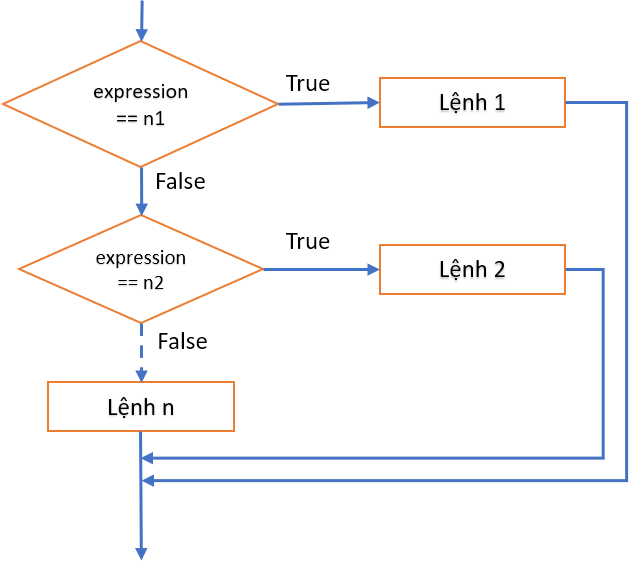
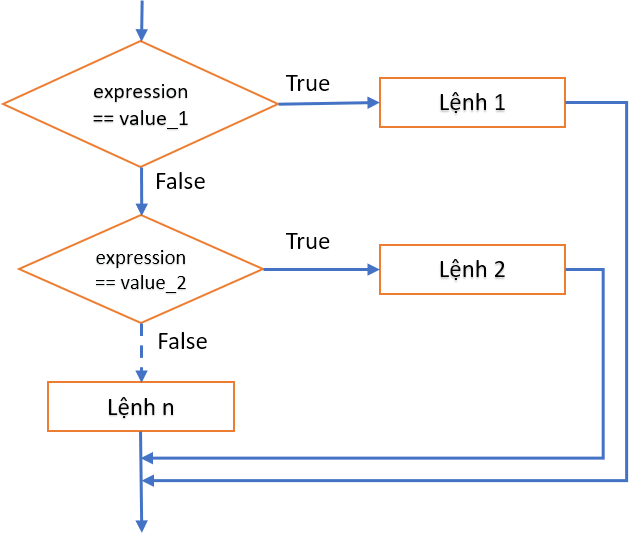
update

diff --git a/03-control-structures/README.md b/03-control-structures/README.md
@@ -39,9 +39,10 @@
 ```c
 if(condition)
     {
-        // Khối lệnh được thực hiện khi biểu thức condition != 0 (true)
+        // Khối lệnh được thực hiện khi biểu thức logic <condition> != 0 (true)
     }
 ```
+- `<condition>` là một biểu thức logic, có kết quả đúng (!=0, thường là 1), hoặc sai (tương ứng 0).
 
 #### Ví dụ:
 ```c
@@ -65,7 +66,7 @@ else
         // Khối lệnh được thực hiện khi biểu thức condition == 0 (false)
     }
 ```
-
+- `<expression>` là một biểu thức có giá trị rời rạc
 #### Ví dụ:
 ```c
 int a = 36;
@@ -156,16 +157,21 @@ switch(expression) {
     // <Lệnh n>;
 }
 ```
-- Giá trị của biểu thức <expression> sẽ được so sánh với từng giá trị, nếu trùng nhau thì lệnh/khối lệnh tương ứng được thực thi.
+
+- Cấu trúc `switch` chọn thực hiện các lệnh dựa trên so sánh biểu thức `<expression>` với các giá trị được xét.
+- Các giá trị `value_1, value_2, ...` phải là hằng và không được trùng nhau. 
+- Biểu thức và các các hằng giá trị phải có kiểu rời rạc (integral): số nguyên (có hoặc không dấu), ký tự (được trình biên dịch chuyển sang mã ASCII tương ứng), thành viên của kiểu liệt kê (được trình biên dịch chuyển sang số nguyên tương ứng), các trường `bit` (0,1).
+
+#### Thực hiện:
+- Biểu thức <expression> lần lượt được so sánh với từng giá trị `value_1, value_2, ...`, nếu trùng khớp thì chương trình thực hiện từ `<lệnh/khối lệnh>` tương ứng.
 - Khi gặp lệnh **break**, chương trình sẽ thoát khỏi khối **switch**.
-- Nếu sau một trường hợp mà lệnh **break**
+- Nếu sau một trường hợp mà không gọi lệnh **break**, chương trình chuyển xuống xử lý trường hợp kế tiếp.
 - Nếu biểu thức không trùng với giá trị nào đã xét, lệnh/khối lệnh ở khối **default** được thực thi.
 
 <div class="note">
 <p>
 <ul>
-    <li>Câu lệnh <code>switch</code> có thể lồng nhau.</li>
-    <li>Các trường hợp n1, n2, ... phải có giá trị rời rạc và không trùng nhau.</li>
+    Câu lệnh <code>switch</code> có thể lồng nhau.
 </ul>
 </p>
 </div>
